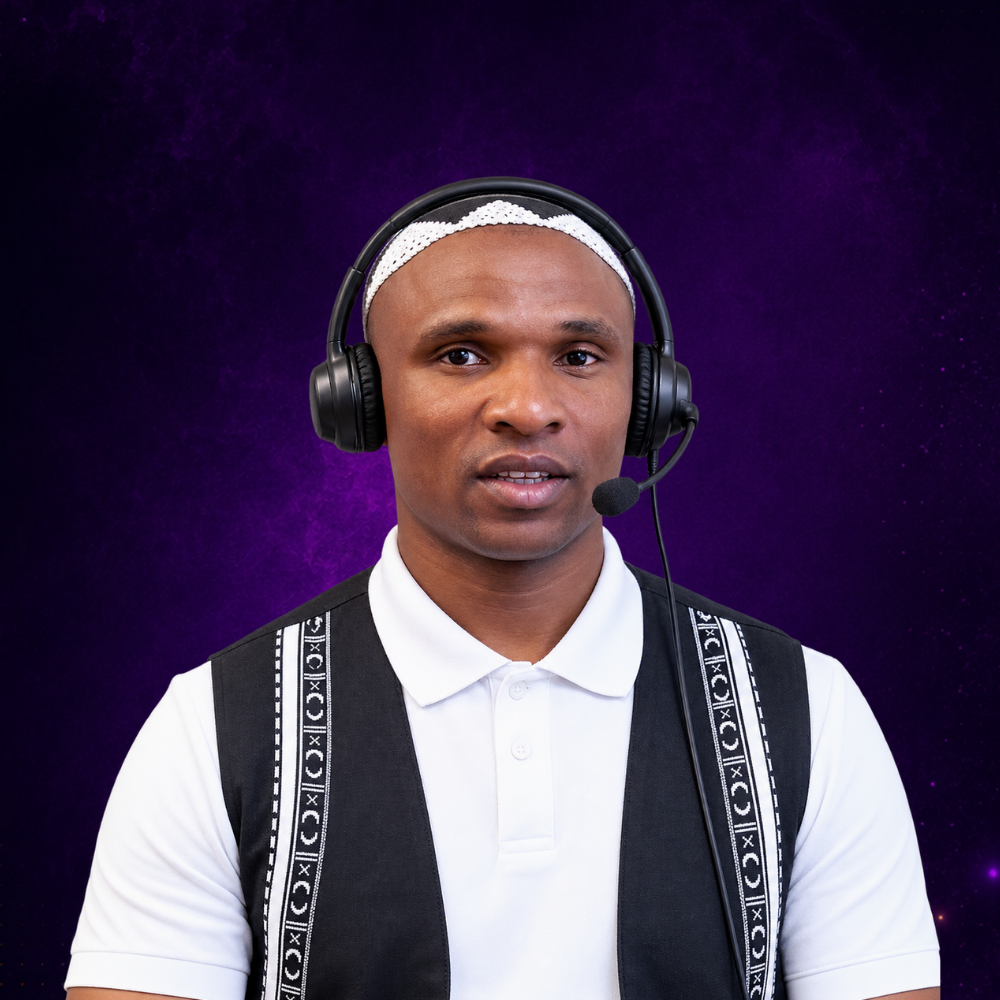
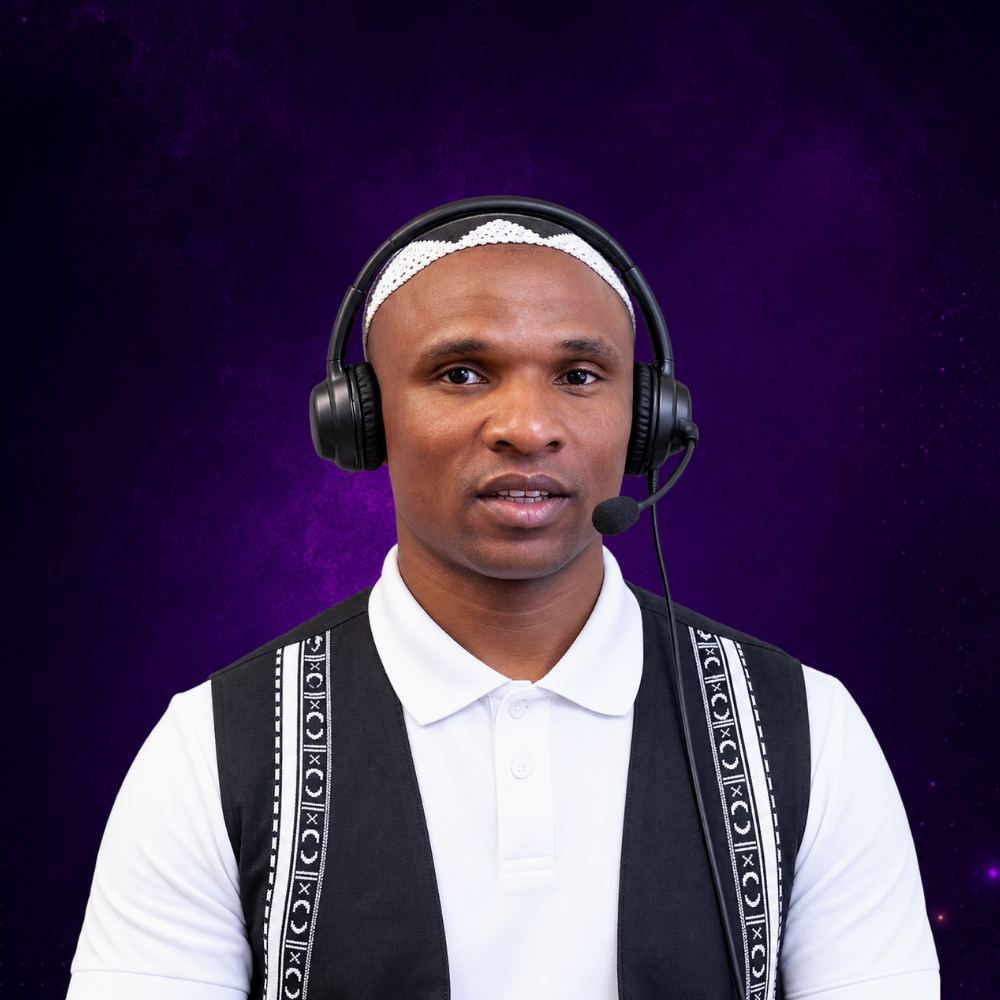
final: remove home team CTA, own-network privacy clause

diff --git a/frontend/kuyakhanya-frontend/components/TeamSection.tsx b/frontend/kuyakhanya-frontend/components/TeamSection.tsx
@@ -1,4 +1,3 @@
-import Link from "next/link";
 import { managers } from "@/lib/people";
 import MasterCard from "@/components/MasterCard";
 
@@ -27,23 +26,6 @@ export default function TeamSection() {
               <MasterCard person={p} profilePath={`/team/${p.slug}`} />
             </div>
           ))}
-        </div>
-        <div className="mt-10 text-center">
-          <Link
-            href="/team"
-            className="inline-flex items-center rounded-full bg-[#FFD700] px-7 py-3 text-sm font-black text-[#1a0b2e] shadow-lg transition hover:bg-[#ffe873]"
-          >
-            Meet the Full Team →
-          </Link>
-        </div>
-
-        <div className="mt-10 flex justify-center">
-          <Link
-            href="/team"
-            className="inline-flex items-center rounded-full bg-[#FFD700] px-7 py-3 text-sm font-black text-[#1a0b2e] shadow-lg transition hover:bg-[#ffe873]"
-          >
-            Meet the Full Team →
-          </Link>
         </div>
       </div>
     </section>

diff --git a/frontend/kuyakhanya-frontend/app/privacy/page.tsx b/frontend/kuyakhanya-frontend/app/privacy/page.tsx
@@ -39,7 +39,8 @@ const SECTIONS: { heading: string; body: string[] }[] = [
   {
     heading: "Analytics and advertising",
     body: [
-      "We use Google Analytics to understand aggregated listening and reading trends, and Google AdSense plus direct sponsorships (such as Octotel placements) to keep the station running. These providers may set their own cookies as described in Google's Privacy Policy.",
+      "We use Google Analytics to understand aggregated listening and reading trends. These providers may set their own cookies as described in Google's Privacy Policy.",
+      "Advertising across our platform is served exclusively through our own controlled advertising network, operated by KUYAKHANYA FM. We do not serve third-party advertising-network placements on this website; all sponsorships and placements are managed directly by the station.",
       "Our pages embed third-party content such as YouTube players, which may collect viewing data under their own policies.",
     ],
   },
